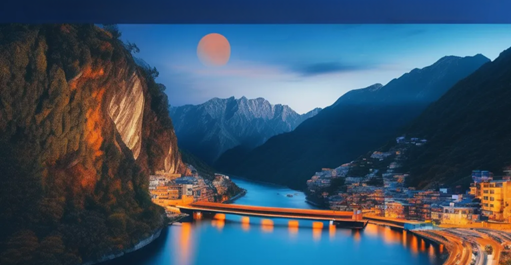
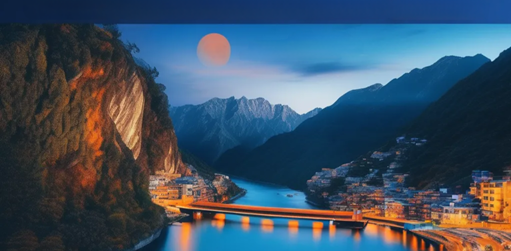
Fix:change header photo

diff --git a/src/Components/tourspage/Nav.scss b/src/Components/tourspage/Nav.scss
@@ -44,7 +44,7 @@
    
     .home-back {  
         display: flex;   
-        background-image: url(../tourspage/Assests/home1.png);   
+        background-image: url(../tourspage/Assests/home.png);   
         background-size: cover;   
         background-repeat: no-repeat;  
         background-position: center;   
@@ -52,7 +52,7 @@
         flex-direction: column;   
         box-sizing: border-box;  
         
-        min-height: 100vh; /* Full viewport height */  
+        min-height: 105vh; /* Full viewport height */  
         width: 100%; /* Full width */  
         margin: 0; /* Reset margins */  
         padding: 0; /* Reset padding */  
@@ -114,6 +114,11 @@
     .search {  
     &__container {  
         padding-top: 390px;  
+        padding: 0; /* Set this to 0 or adjust for spacing */  
+        position: relative;  
+        margin-top: -30px; /* Use negative margin to pull it closer */  
+        align-self: center;  
+         
     }  
 
     &__input {  

diff --git a/src/Components/tourspage/Nav.jsx b/src/Components/tourspage/Nav.jsx
@@ -30,9 +30,10 @@ function Navbar() {
               <FaBars />  
             </button>
         </header>
+        
+        </div>  
         <div className="search__container">  
         <input class="search__input" type="text" placeholder="Search ..." />
-        </div>  
       </div>
     </div>
   );
